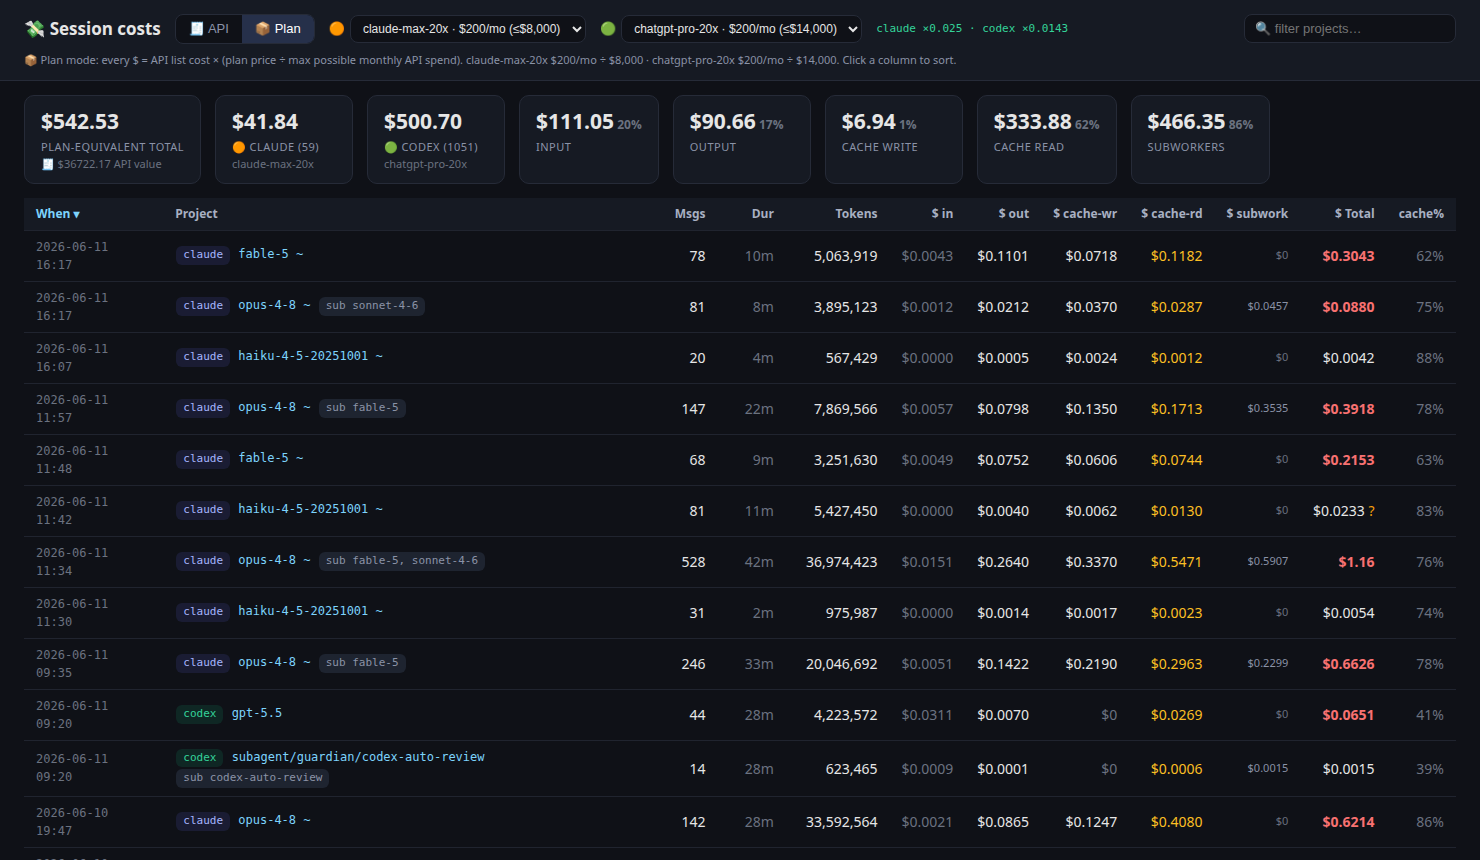
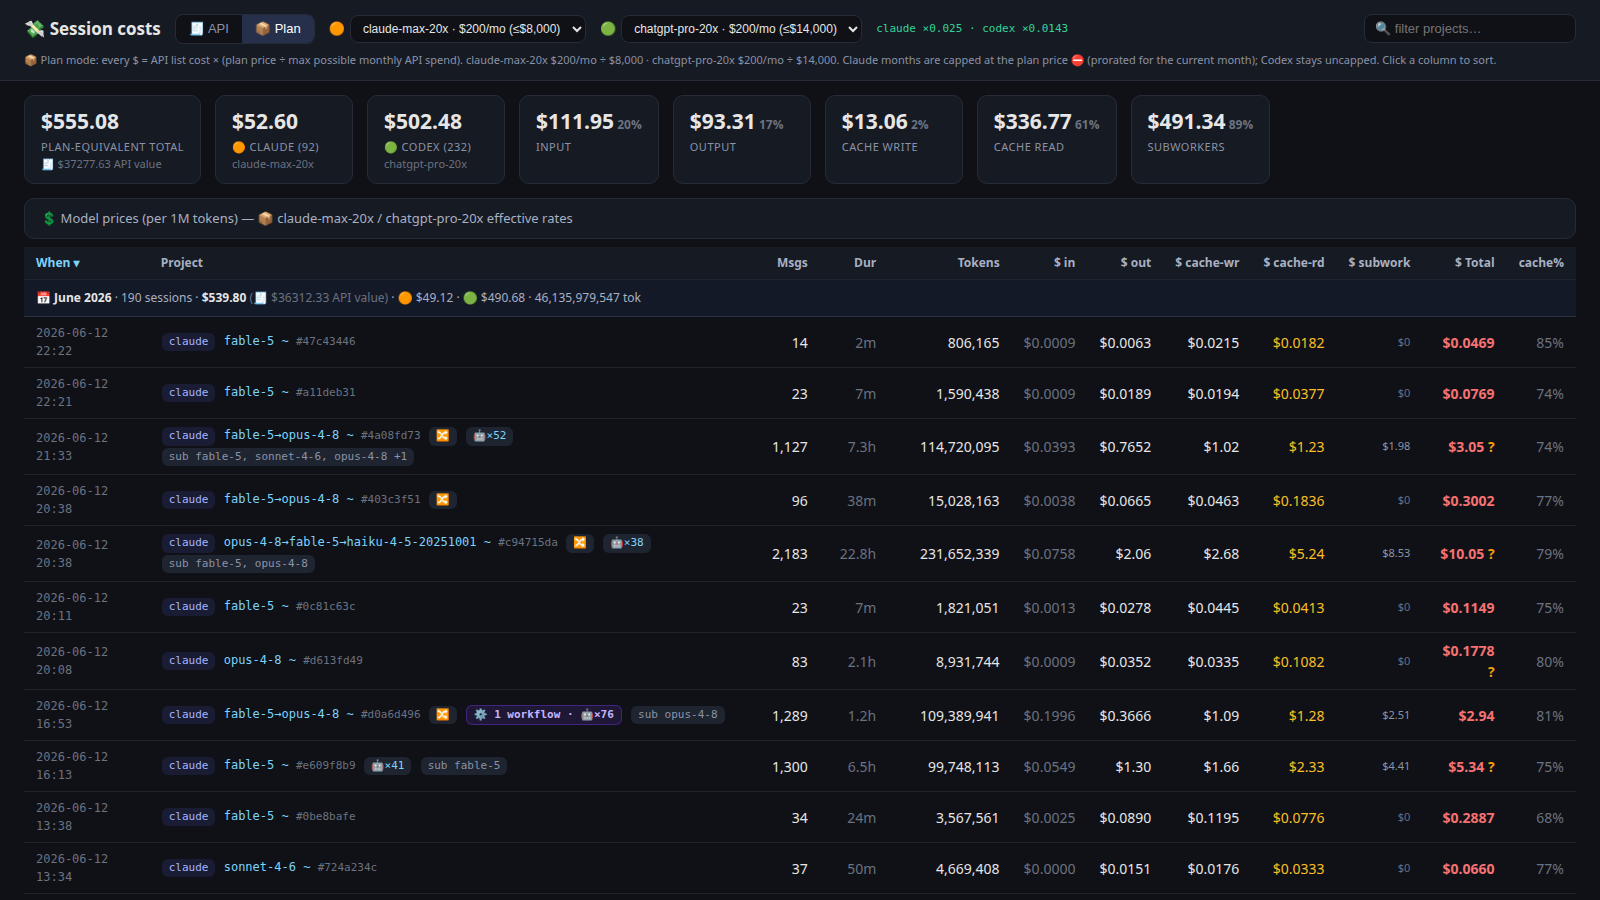
Dedup usage per message id, fold workflow runs, add spend-over-time chart; refresh screenshots

diff --git a/README.md b/README.md
@@ -12,6 +12,9 @@ It scans your local session logs (`~/.claude/projects/**/*.jsonl` and `~/.codex/
 - 🧾 **API pricing** — one click away: raw input / output / cache-write / cache-read priced per model (Opus, Sonnet, Haiku, Fable, GPT-5.x, …)
 - 🤖 Subagent/sidechain work is merged into its parent session and broken out as "subwork"
 - 📊 Per-session drill-down: per-model token counts, spend by category (input / output / cache write / cache read / main / subworkers)
+- 📈 **Spend-over-time chart** in the drill-down — cumulative raw-API $ across the session, subagent turns included (hover for the $ at any moment)
+- ⚙️ **Workflow runs** (multi-agent orchestration under `subagents/workflows/`) fold into their mother session and show up as a `⚙ N workflow · 🤖×M` badge
+- 🎯 Accurate Claude accounting: one API response is logged as many jsonl lines (same `message.id`, identical cache tokens, growing `output_tokens`) — usage is deduped per message id, otherwise cache costs inflate ~2×
 - 🔍 Live project filter — totals cards recompute over the filtered rows
 - ↕️ Sortable columns, duration, cache-hit share
 - ⚡ mtime-cached scanning, so multi-GB log directories stay fast after the first load